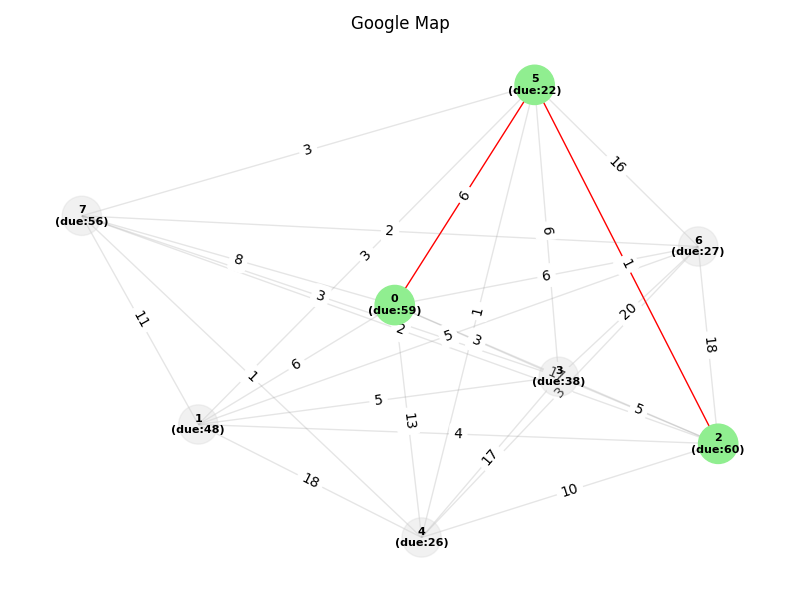
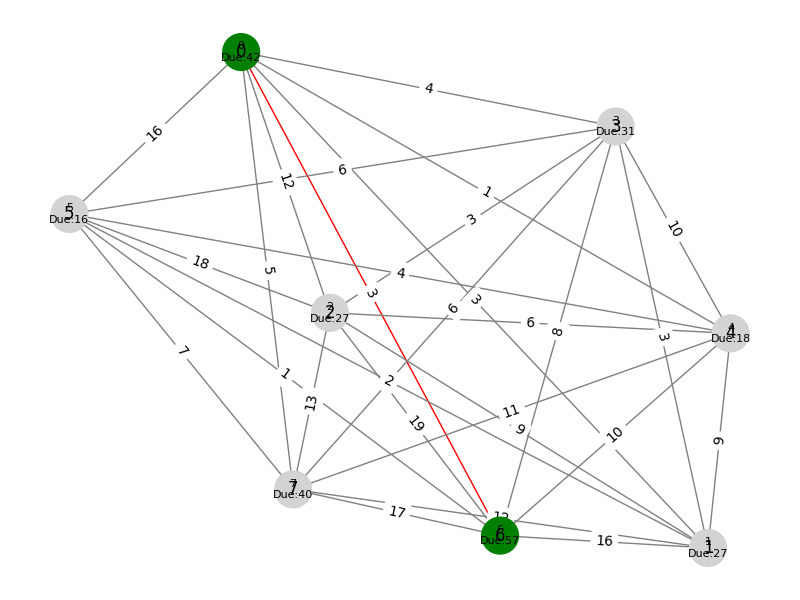
customer-commit

diff --git a/templates/index.html b/templates/index.html
@@ -1,91 +1,96 @@
 <!DOCTYPE html>
 <html lang="en">
-
 <head>
     <meta charset="UTF-8">
-    <meta name="viewport" content="width=device-width, initial-scale=1.0">
     <title>Merchant Delivery Simulation</title>
     <style>
         body {
             font-family: Arial, sans-serif;
+            background-color: #f0f0f0;
             padding: 20px;
-            background-color: #f5f5f5;
         }
 
         .container {
             background-color: white;
             padding: 20px;
             border-radius: 10px;
-            box-shadow: 0 0 10px rgba(0, 0, 0, 0.1);
             max-width: 600px;
             margin: auto;
+            box-shadow: 0 0 10px rgba(0,0,0,0.1);
         }
 
-        input,
-        button {
-            padding: 10px;
-            margin: 10px 0;
+        input, button {
             width: 100%;
-            font-size: 16px;
+            padding: 10px;
+            margin-top: 10px;
         }
 
-        #graph_image {
+        .section-title {
+            font-weight: bold;
             margin-top: 20px;
-            max-width: 100%;
+        }
+
+        img {
+            margin-top: 20px;
+            width: 100%;
             border: 1px solid #ccc;
             border-radius: 5px;
         }
     </style>
 </head>
-
 <body>
-    <div class="container">
-        <label for="start_node">Start Node (0–7):</label>
-<input type="number" id="start_node" min="0" max="7" value="0">
+<div class="container">
+    <label for="start_node">Start Node (0–7):</label>
+    <input type="number" id="start_node" min="0" max="7" value="0" />
 
-<label for="end_node">End Node (0–7):</label>
-<input type="number" id="end_node" min="0" max="7" value="7">
+    <div class="section-title">Customer 1</div>
+    <input type="number" id="c1_time" placeholder="Time to travel" />
+    <input type="number" id="c1_urgency" placeholder="Urgency (higher is more urgent)" />
 
-<button onclick="simulate()">Delivery Route</button>
+    <div class="section-title">Customer 2</div>
+    <input type="number" id="c2_time" placeholder="Time to travel" />
+    <input type="number" id="c2_urgency" placeholder="Urgency (higher is more urgent)" />
 
-        <img id="graph_image" src="" alt="Graph Image" />
+    <button onclick="simulate()">Simulate Delivery</button>
 
-        <div id="result" style="margin-top:20px; font-weight:bold;"></div>
-    </div>
+    <img id="graph_image" src="" alt="Graph Image" />
+    <div id="result"></div>
+</div>
 
-
-    <script>
-        function simulate() {
-    const startNode = parseInt(document.getElementById('start_node').value, 10);
-    const endNode = parseInt(document.getElementById('end_node').value, 10);
+<script>
+function simulate() {
+    const start_node = parseInt(document.getElementById("start_node").value);
+    const c1_time = parseInt(document.getElementById("c1_time").value);
+    const c1_urgency = parseInt(document.getElementById("c1_urgency").value);
+    const c2_time = parseInt(document.getElementById("c2_time").value);
+    const c2_urgency = parseInt(document.getElementById("c2_urgency").value);
 
     fetch('/simulate', {
         method: 'POST',
         headers: { 'Content-Type': 'application/json' },
-        body: JSON.stringify({ start_node: startNode, end_node: endNode })
+        body: JSON.stringify({
+            start_node,
+            c1_time,
+            c1_urgency,
+            c2_time,
+            c2_urgency
+        })
     })
-    .then(response => response.json())
+    .then(res => res.json())
     .then(data => {
-        const img = document.getElementById('graph_image');
-        img.src = data.image_url + '?t=' + new Date().getTime();
-
-        const resultDiv = document.getElementById('result');
-        resultDiv.innerHTML = `
-            <strong>Starting Location:</strong> ${data.start_node} <br/>
-            <strong>End Location:</strong> ${data.end_node} <br/>
-            <strong>Total Time:</strong> ${data.total_time * 10} munites <br/>
-            <strong>Total Delivery Cost:</strong> ${parseInt((data.total_time * 100) / 50)} Yuan <br/>
-            <strong>Path:</strong> ${data.path.join(' ... ')}
+        document.getElementById('graph_image').src = data.image_url + '?t=' + new Date().getTime();
+        document.getElementById('result').innerHTML = `
+            <strong>Selected Customer:</strong> ${data.selected_customer} <br/>
+            <strong>Total Time:</strong> ${data.total_time * 10} minutes <br/>
+            <strong>Total Cost:</strong> ${data.total_cost} Yuan <br/>
+            <strong>Path:</strong> ${data.path.join(" → ")}
         `;
     })
-    .catch(error => {
-        console.error('Error:', error);
-        alert('An error occurred during simulation.');
+    .catch(err => {
+        console.error(err);
+        alert("Simulation failed.");
     });
 }
-
-
-    </script>
+</script>
 </body>
-
 </html>

diff --git a/app.py b/app.py
@@ -27,71 +27,72 @@ def index():
 def simulate():
     data = request.get_json()
     start_node = int(data.get('start_node', 0))
-    end_node = int(data.get('end_node', 7))
+    c1_time = int(data.get('c1_time'))
+    c1_urgency = int(data.get('c1_urgency'))
+    c2_time = int(data.get('c2_time'))
+    c2_urgency = int(data.get('c2_urgency'))
 
     G, due_times = create_graph()
-    pos = nx.spring_layout(G, seed=42)  # fixed layout for consistency
+    pos = nx.spring_layout(G, seed=42)
 
-    # Priority queue: (time_so_far, current_node, path_list)
-    heap = []
-    heappush(heap, (0, start_node, [start_node]))
+    def find_path(end_node):
+        heap = [(0, start_node, [start_node])]
+        visited = {}
+        while heap:
+            current_time, node, path = heappop(heap)
+            if node == end_node:
+                return path, current_time
+            if node in visited and visited[node] <= current_time:
+                continue
+            visited[node] = current_time
+            for neighbor in G.neighbors(node):
+                if neighbor in path:
+                    continue
+                weight = G[node][neighbor]['weight']
+                arrival_time = current_time + weight
+                if arrival_time <= due_times[neighbor]:
+                    heappush(heap, (arrival_time, neighbor, path + [neighbor]))
+        return [], float('inf')
 
-    visited = dict()  # node: earliest arrival time
+    # Evaluate both customers
+    best = {'customer': None, 'priority': float('inf')}
+    customers = [
+        {'id': 'Customer 1', 'travel_time': c1_time, 'urgency': c1_urgency, 'node': 6},
+        {'id': 'Customer 2', 'travel_time': c2_time, 'urgency': c2_urgency, 'node': 7}
+    ]
 
-    found_path = None
-    total_time = None
+    for customer in customers:
+        path, total_time = find_path(customer['node'])
+        cost = int((total_time * 100) / 50)
+        priority = customer['travel_time'] + cost - customer['urgency']
+        customer.update({'path': path, 'time': total_time, 'cost': cost, 'priority': priority})
 
-    while heap:
-        current_time, current_node, path = heappop(heap)
+        if priority < best['priority']:
+            best = {
+        'customer': customer['id'],
+        'path': path,
+        'total_time': total_time,
+        'total_cost': cost,
+        'node': customer['node'],
+        'priority': priority  # ← Add this line to avoid KeyError
+    }
 
-        if current_node == end_node:
-            found_path = path
-            total_time = current_time
-            break
 
-        if current_node in visited and visited[current_node] <= current_time:
-            continue
-        visited[current_node] = current_time
-
-        for neighbor in G.neighbors(current_node):
-            weight = G[current_node][neighbor]['weight']
-            arrival_time = current_time + weight
-            if arrival_time <= due_times[neighbor] and neighbor not in path:
-                heappush(heap, (arrival_time, neighbor, path + [neighbor]))
-
-    if not found_path:
-        return jsonify({
-            'message': f"No valid delivery path found from {start_node} to {end_node} within due times.",
-            'path': [],
-            'start_node': start_node,
-            'end_node': end_node,
-            'total_time': 0,
-            'image_url': ''
-        })
-
-    # Prepare graph drawing with path highlighted
+    # Draw graph
     edge_colors = []
     for u, v in G.edges():
-        if (u in found_path and v in found_path and abs(found_path.index(u) - found_path.index(v)) == 1):
+        if (u in best['path'] and v in best['path'] and abs(best['path'].index(u) - best['path'].index(v)) == 1):
             edge_colors.append('red')
         else:
             edge_colors.append('gray')
-    edge_alphas = [1.0 if c == 'red' else 0.2 for c in edge_colors]
-
-    node_colors = ['lightgreen' if n in found_path else 'lightgray' for n in G.nodes()]
-    node_alphas = [1.0 if n in found_path else 0.3 for n in G.nodes()]
-    labels = {n: f"{n}\n(due:{due_times[n]})" for n in G.nodes()}
 
     plt.figure(figsize=(8, 6))
-    nx.draw_networkx_nodes(G, pos, node_color=node_colors, alpha=node_alphas, node_size=800)
-    nx.draw_networkx_edges(G, pos, edge_color=edge_colors, alpha=edge_alphas)
-    nx.draw_networkx_labels(G, pos, labels=labels, font_weight='bold', font_size=8)
-    edge_labels = nx.get_edge_attributes(G, 'weight')
-    nx.draw_networkx_edge_labels(G, pos, edge_labels=edge_labels)
-
-    plt.title("Google Map")
+    nx.draw(G, pos, with_labels=True,
+            node_color=['green' if n in best['path'] else 'lightgray' for n in G.nodes()],
+            edge_color=edge_colors, node_size=700)
+    nx.draw_networkx_labels(G, pos, labels={n: f"{n}\nDue:{due_times[n]}" for n in G.nodes()}, font_size=8)
+    nx.draw_networkx_edge_labels(G, pos, edge_labels=nx.get_edge_attributes(G, 'weight'))
     plt.axis('off')
-    plt.tight_layout()
 
     if not os.path.exists('static'):
         os.makedirs('static')
@@ -99,11 +100,10 @@ def simulate():
     plt.close()
 
     return jsonify({
-        'path': found_path,
-        'start_node': start_node,
-        'end_node': end_node,
-        'total_time': total_time,
-        'message': f"Delivery path from node {start_node} to {end_node}: {found_path} with total time {total_time}",
+        'selected_customer': best['customer'],
+        'path': best['path'],
+        'total_time': best['total_time'],
+        'total_cost': best['total_cost'],
         'image_url': '/static/graph.png'
     })
 
